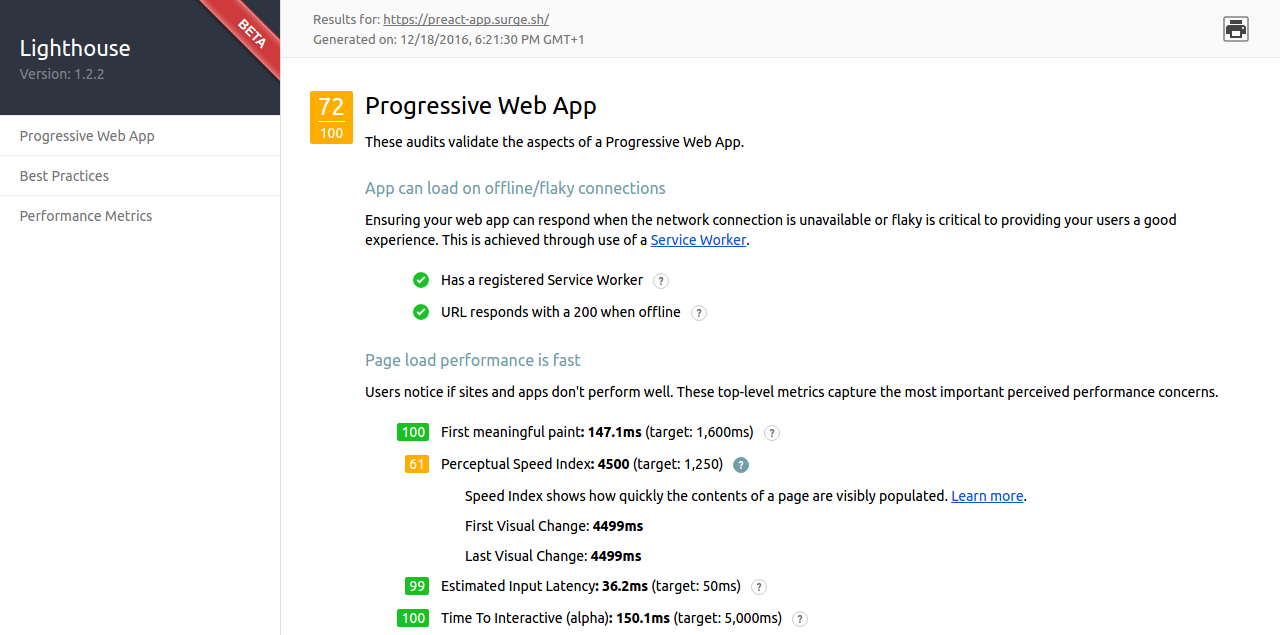
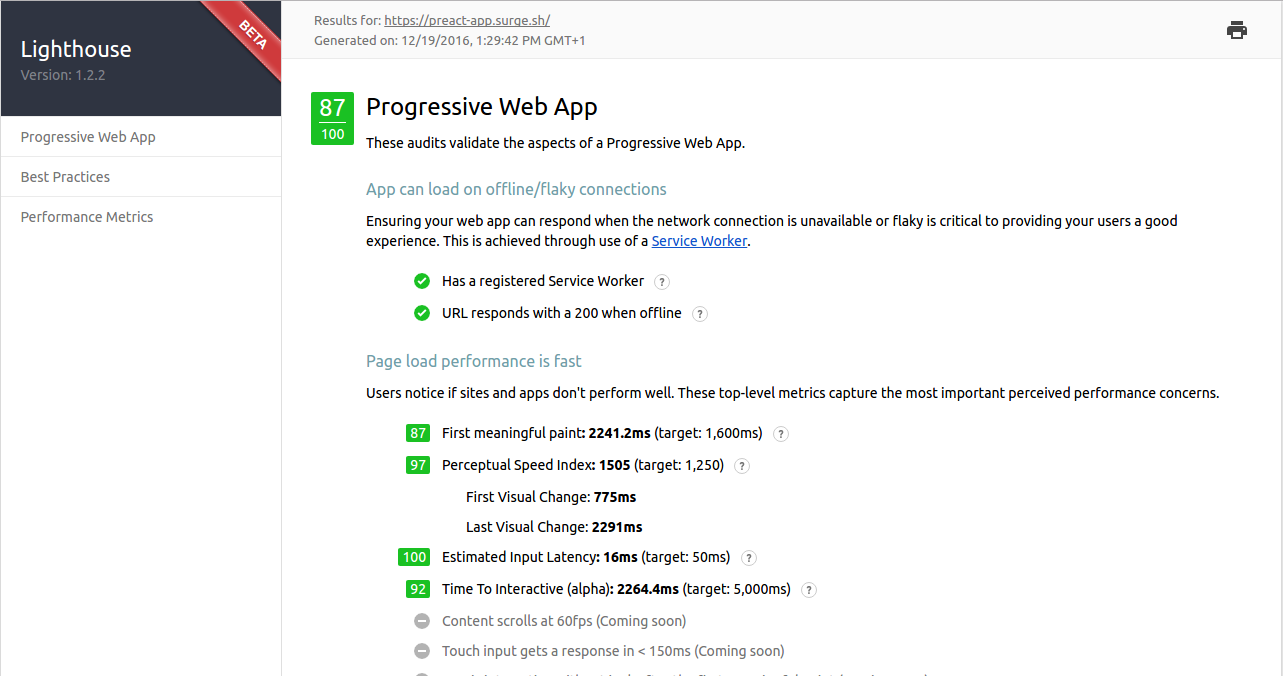
improve performance

diff --git a/src/index.html b/src/index.html
@@ -7,8 +7,7 @@
 		<meta name="mobile-web-app-capable" content="yes">
 		<meta name="apple-mobile-web-app-capable" content="yes">
 		<meta name="format-detection" content="telephone=no">
-		<link rel="stylesheet" href="https://fonts.googleapis.com/icon?family=Material+Icons">
-		<link rel="stylesheet" href="https://code.getmdl.io/1.2.1/material.deep_purple-red.min.css">
+		<link rel="stylesheet" href="https://code.getmdl.io/1.2.1/material.blue-light_blue.min.css" >
 		<% if ( htmlWebpackPlugin.options.manifest) { %>
 		<link rel="manifest" href="<%= htmlWebpackPlugin.options.manifest %>">
 		<% } %>
@@ -29,7 +28,6 @@
 		<% for (var chunk in  htmlWebpackPlugin.files.chunks) { %>
 		<script src="<%= htmlWebpackPlugin.files.chunks[chunk].entry %>" async></script>
 		<% } %>
-
 <!-- <script>(function(i,s,o,g,r,a,m){i['GoogleAnalyticsObject']=r;i[r]=i[r]||function(){(i[r].q=i[r].q||[]).push(arguments)},i[r].l=1*new Date();a=s.createElement(o),m=s.getElementsByTagName(o)[0];a.async=1;a.src=g;m.parentNode.insertBefore(a,m)})(window,document,'script','//www.google-analytics.com/analytics.js','ga');
 ga('create', 'UA-6031694-19', 'auto');ga('send', 'pageview');</script> -->
 	</body>

diff --git a/src/style/index.scss b/src/style/index.scss
@@ -1,23 +1,14 @@
 html, body {
-	width: 100%;
-	padding: 0;
-	margin: 0;
-	background: #767A7F;
-	font-family: 'Helvetica Neue', arial, sans-serif;
-	font-weight: 400;
+	background: #222;
 	color: #444;
 	-webkit-font-smoothing: antialiased;
 	-moz-osx-font-smoothing: grayscale;
 }
 
-* {
-	box-sizing: border-box;
-}
-
 form {
 	background: #EEE;
 	padding: 10px;
-	border-bottom: 1px solid #DDD;
+	border-bottom: 3px solid #333;
 }
 
 ul {

diff --git a/webpack.config.babel.js b/webpack.config.babel.js
@@ -100,6 +100,7 @@ module.exports = {
 		new webpack.NoErrorsPlugin(),
 		new CopyWebpackPlugin([
 			{ from: './src/assets/manifest.json', to: './' },
+			{ from: './src/assets/img', to: './img' }
 		]),
 		new OfflinePlugin({
 			relativePaths: false,

diff --git a/README.md b/README.md
@@ -4,16 +4,13 @@ Preact + Preact-mdl + React Router + Redux powered by Webpack 2 with Service wor
 
 <img src='lighthouse.png' />
 _Audits on lighthouse_
-- First meaningful paint in 147.1ms
-- Time to interactive in 150.1ms
 
-We'll add the necessary things to have a green :smile:
+We've increased the lighthouse score as promised :smile:
 
 # Quick-Start Guide
 
 - [Installation](#installation)
 - [Development Workflow](#development-workflow)
-
 
 ## Installation
 
